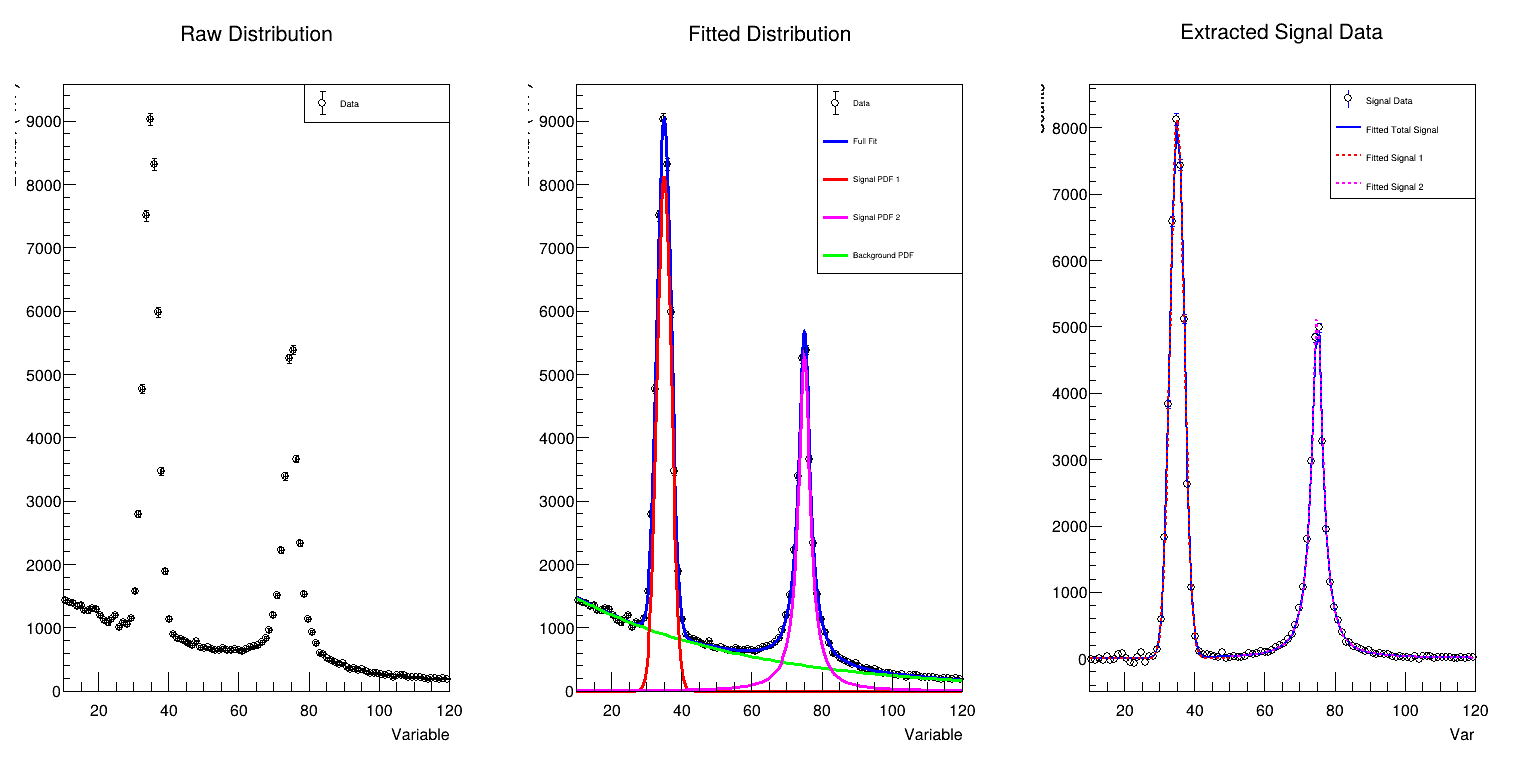
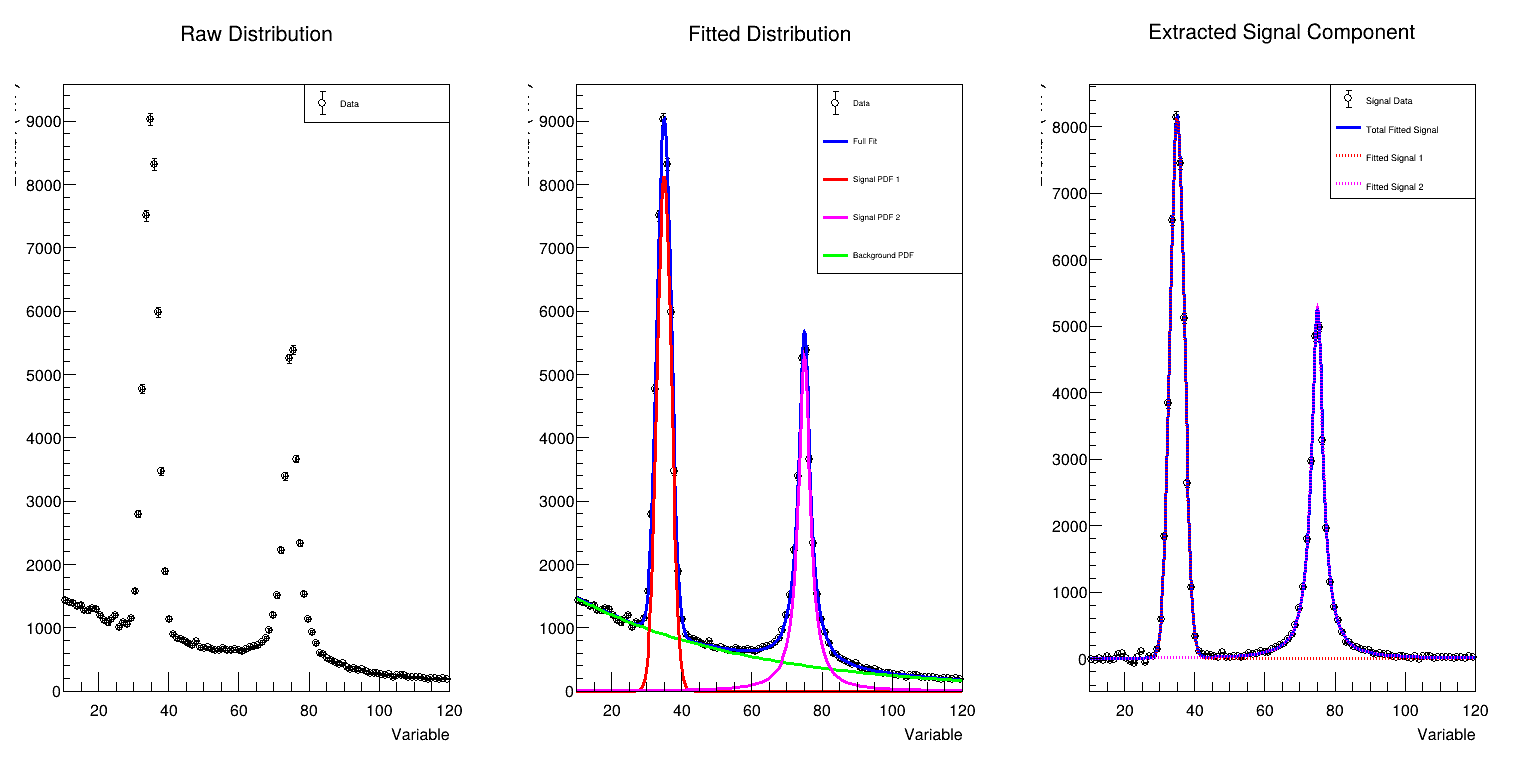
Made some changes to the 3rd and 5th mixedfitdata macro to use RooFit instead of functions

diff --git a/C_files/Mixedfitdata5.C b/C_files/Mixedfitdata5.C
@@ -130,7 +130,7 @@ void Mixedfitdata5(){
         double bkg_counts = bkg_density * nbkg.getVal() * bw;
         double y = hsig->GetBinContent(i);
         hsig->SetBinContent(i, y - bkg_counts);
-    }
+    }/*
 
     hsig->SetLineColor(kBlue);
     hsig->SetMarkerStyle(20);
@@ -154,14 +154,25 @@ void Mixedfitdata5(){
     hsig->Draw("E1");
     ftotal->Draw("same");
     fsig1->Draw("same");
-    fsig2->Draw("same");
+    fsig2->Draw("same");*/
+
+    RooDataHist signalData("signalData", "Signal Data", var, Import(*hsig));
+    RooPlot *frame3 = var.frame();
+    signalData.plotOn(frame3, Name("sigdata"));
+
+    RooAddPdf sigpdf("sigpdf", "Total Signal PDF", RooArgList(signal1, signal2), RooArgList(nsig1, nsig2));
+    sigpdf.plotOn(frame3, Name("sigpdf"), LineColor(kBlue), Normalization(nsig1.getVal() + nsig2.getVal(),RooAbsReal::NumEvent));
+    signal1.plotOn(frame3, Name("sigpdf1"), LineColor(kRed), LineStyle(kDotted), Normalization(nsig1.getVal(),RooAbsReal::NumEvent));
+    signal2.plotOn(frame3, Name("sigpdf2"), LineColor(kMagenta), LineStyle(kDotted), Normalization(nsig2.getVal(),RooAbsReal::NumEvent));
+    frame3->SetTitle("Extracted Signal Component");
+    frame3->Draw();
    
 
     TLegend *leg3 = new TLegend(0.6, 0.75, 0.9, 0.9);
-    leg3->AddEntry(hsig, "Signal Data", "ep");
-    leg3->AddEntry(ftotal, "Fitted Total Signal", "l");
-    leg3->AddEntry(fsig1, "Fitted Signal 1", "l");
-    leg3->AddEntry(fsig2, "Fitted Signal 2", "l");
+    leg3->AddEntry(frame3->findObject("sigdata"), "Signal Data", "ep");
+    leg3->AddEntry(frame3->findObject("sigpdf"), "Total Fitted Signal", "l");
+    leg3->AddEntry(frame3->findObject("sigpdf1"), "Fitted Signal 1", "l");
+    leg3->AddEntry(frame3->findObject("sigpdf2"), "Fitted Signal 2", "l");
     leg3->Draw();
 
     cmain->Modified();

diff --git a/C_files/Mixedfitdata3.C b/C_files/Mixedfitdata3.C
@@ -130,7 +130,7 @@ void Mixedfitdata3(){
         double bkg_counts = bkg_density * nbkg.getVal() * bw;
         double y = hsig->GetBinContent(i);
         hsig->SetBinContent(i, y - bkg_counts);
-    }
+    }/*
 
     hsig->SetLineColor(kBlue);
     hsig->SetMarkerStyle(20);
@@ -154,14 +154,22 @@ void Mixedfitdata3(){
     hsig->Draw("E1");
     ftotal->Draw("same");
     fsig1->Draw("same");
-    fsig2->Draw("same");
-   
+    fsig2->Draw("same");*/
+
+    RooDataHist signalData("signalData", "Signal Data", var, Import(*hsig));
+    RooPlot *frame3 = var.frame();
+    signalData.plotOn(frame3, Name("sigdata"));
+    signal.plotOn(frame3, Name("sigpdf"), LineColor(kBlue), LineStyle(kDashed), Normalization(nsig.getVal(),RooAbsReal::NumEvent));
+    signal1.plotOn(frame3, Name("sigpdf1"), LineColor(kRed), LineStyle(kDotted), Normalization(nsig.getVal() * frac.getVal(),RooAbsReal::NumEvent));
+    signal2.plotOn(frame3, Name("sigpdf2"), LineColor(kMagenta), LineStyle(kDotted), Normalization(nsig.getVal() * (1 - frac.getVal()),RooAbsReal::NumEvent));
+    frame3->SetTitle("Extracted Signal Component");
+    frame3->Draw();
 
     TLegend *leg3 = new TLegend(0.6, 0.75, 0.9, 0.9);
-    leg3->AddEntry(hsig, "Signal Data", "ep");
-    leg3->AddEntry(ftotal, "Fitted Total Signal", "l");
-    leg3->AddEntry(fsig1, "Fitted Signal 1", "l");
-    leg3->AddEntry(fsig2, "Fitted Signal 2", "l");
+    leg3->AddEntry(frame3->findObject("sigdata"), "Signal Data", "ep");
+    leg3->AddEntry(frame3->findObject("sigpdf"), "Fitted Total Signal", "l");
+    leg3->AddEntry(frame3->findObject("sigpdf1"), "Fitted Signal 1", "l");
+    leg3->AddEntry(frame3->findObject("sigpdf2"), "Fitted Signal 2", "l");
     leg3->Draw();
 
     cmain->Modified();